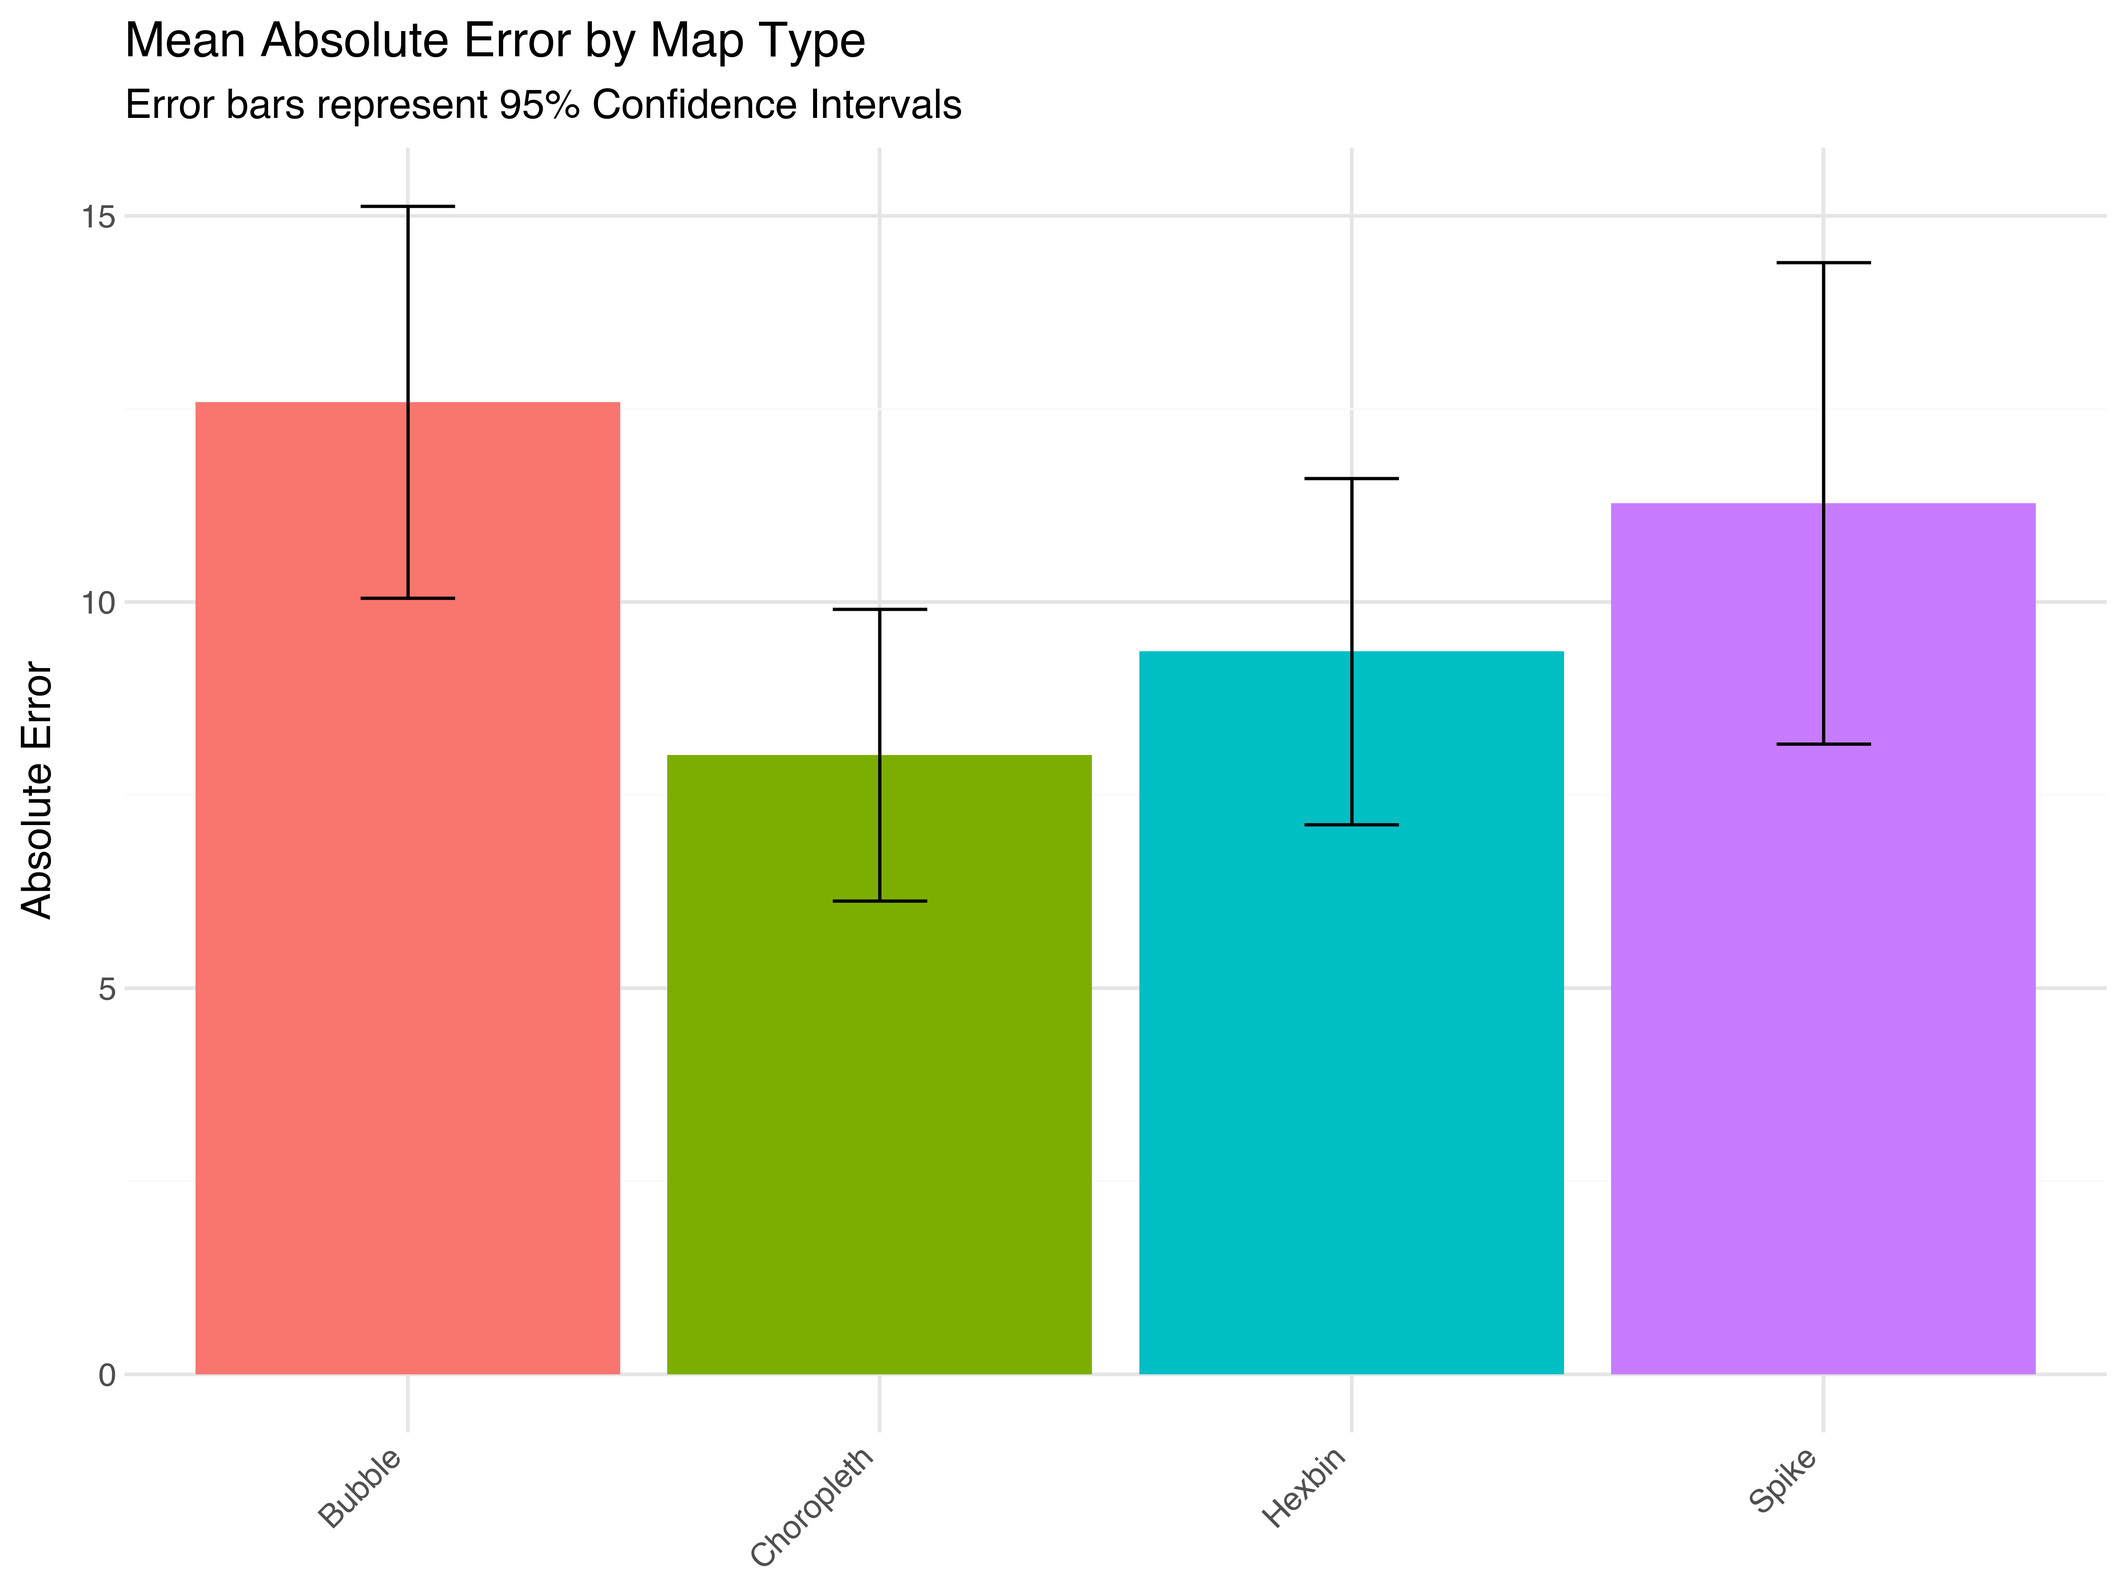
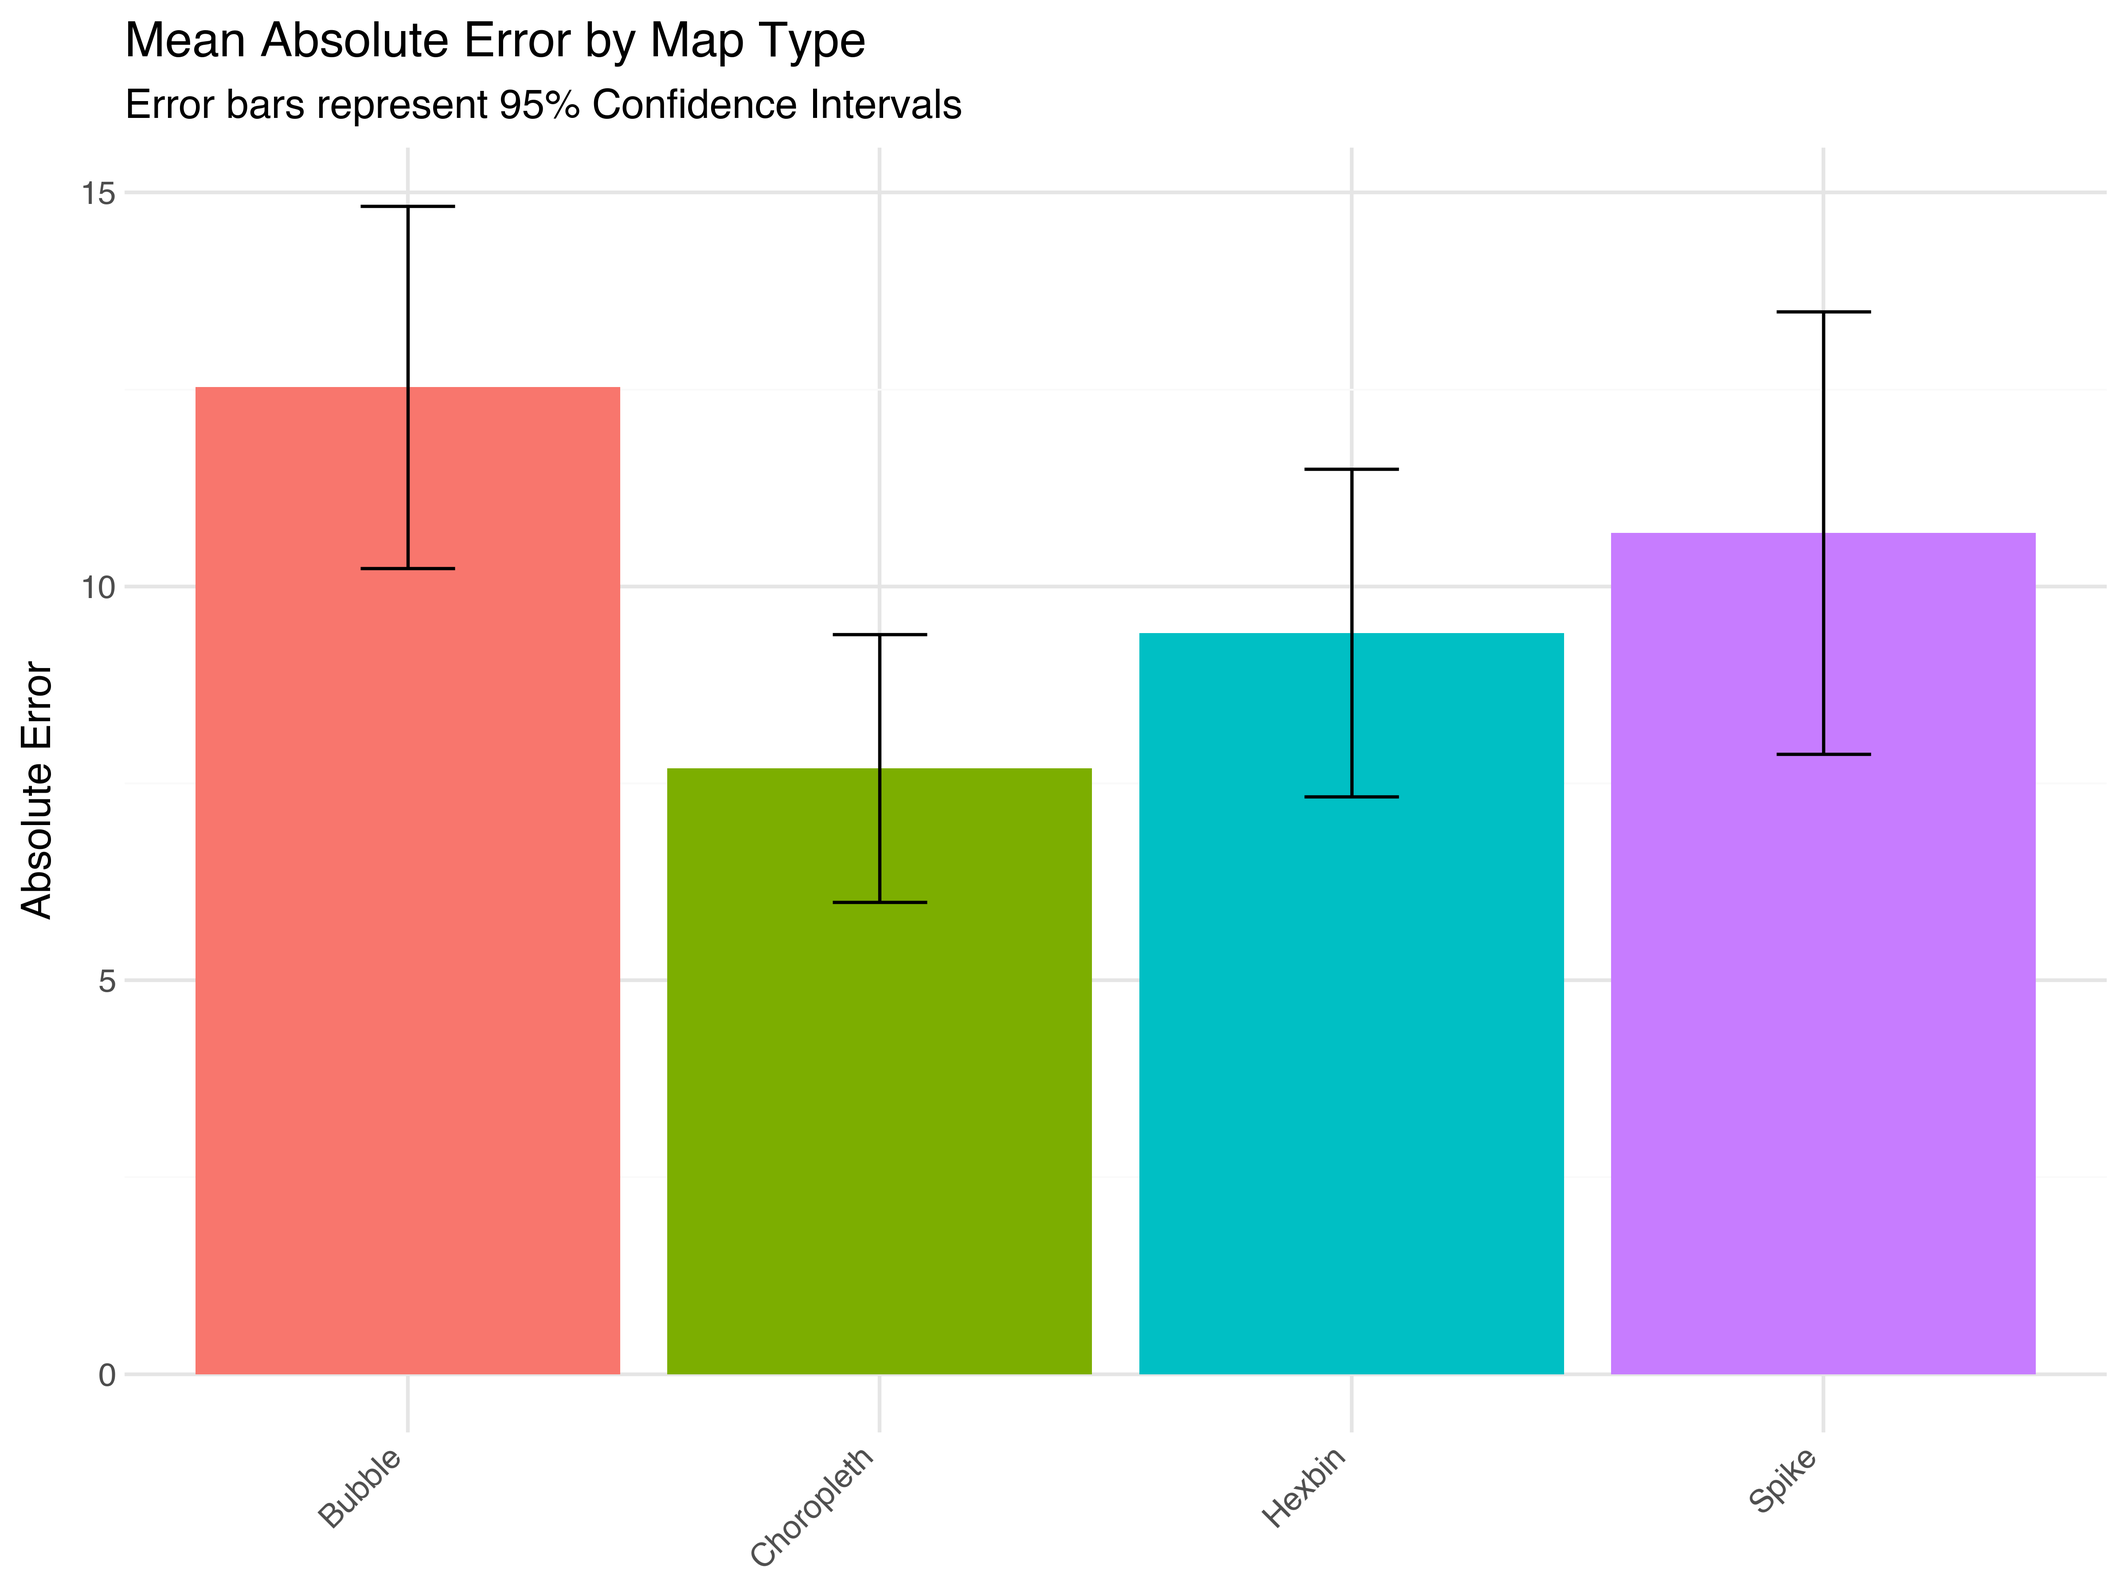
Updated data and readme

diff --git a/data_analysis/analysis.py b/data_analysis/analysis.py
@@ -54,6 +54,7 @@ def run_experiment_analysis(file_path):
             ci = sem * stats.t.ppf((1 + 0.95) / 2., len(vals) - 1)
             row[f'{metric}_mean'] = round(mean, 2)
             row[f'{metric}_ci95'] = round(ci, 2)
+        row['count'] = len(subset)
         summary_list.append(row)
     
     summary_df = pd.DataFrame(summary_list).set_index('MapType')
@@ -113,7 +114,7 @@ def export_visualizations(summary_df, data):
 
     hist_plot = (
         ggplot(data, aes(x='bias', fill='parameters_mapType'))
-        + geom_histogram(binwidth=10, color="black", alpha=0.7, show_legend=False)
+        + geom_histogram(binwidth=5, color="black", alpha=0.7, show_legend=False)
         + geom_vline(xintercept=0, linetype="dashed", color="red", size=1)
         + facet_wrap('~parameters_mapType')
         + labs(title='Error Distribution by Map Type',

diff --git a/README.md b/README.md
@@ -1,112 +1,77 @@
-Assignment 3 - Replicating a Classic Experiment  
-===
+# Assignment 3 - Map Visualization Experiment
 
-For the scope of this project, assume the role of a scientist who runs experiments for a living.
+**Team Members**: Sarah Meyer and Cole Goulding
 
-For example: 
+## Experiment Link
+[**> Click here to view the Live Experiment <**](https://sjessicameyer.github.io/a3-experiment/a3experiment/SEVFVUNGaWFCVEhiMU55ajRqczliUT09)
 
-Q: How do we know that bar charts are "better" than pie charts?  
-A: Controlled experiments!
-
-In this assignment you'll implement a simple controlled experiment using some of the visualizations you’ve been building in this class. 
-You'll need to develop support code for the experiment sequence, results file output, and other experiment components. 
-(These are all simple with Javascript buttons and forms.)
-The main goals for you are to a) test at least three competing visualizations or experiment conditions, b) implement data/stimuli generation and error calculation functions (if following the baseline, use Cleveland and McGill's 1984 paper and Heer and Bostock's 2010 replication), c) run the experiment with 10 participants (or equivalent number of trials), and d) do basic analysis and reporting of the results.
-
-For this assignment you should aim to write everything from scratch. For experimentation it is often necessary to control all elements of the chart.
-You should definitely *reference* demo programs from books or the web, and if you do please provide a References section with links at the end of your Readme.
-
-Going Beyond Cleveland-McGill
 ---
 
-Several have expressed interest in conducting surveys of various sorts. I encourage you go move beyond Cleveland and McGill if you can think of other interesting visualization experiment designs and corresponding analyses. 
+## Experiment Description
+Instead of replicating the standard Cleveland and McGill experiment, our team chose to investigate the perceptual effectiveness of different thematic map types.
 
-You might study how people interpret COVID visualizations or design an experiment on shapes or color, for example.
-If you decide to go in a custom route, do plan to sync with staff so we can help you set acceptable parameters that would be fair to folks following the original route.
+We designed a controlled user study to compare four different geographical visualization techniques:
+1. **Bubble Map**
+2. **Choropleth Map**
+3. **Spike Map**
+4. **Hexbin Map**
 
-(Basically, we still want you to do a multi-trial study with each participant, to raise the chance that you get solid results.)
+### The Task
+Participants were presented with a map visualization and asked to estimate the population of a specific region or city. We collected 20 trials per participant (5 per map type) to ensure robust data. Trial order was randomized and the even the map shape and data itself was fully randomized. Since hex bin maps are typically multivariate, both size and colors in this case correlated with population. 
 
-How you measure "error" and similar facets also matter. But you can't go wrong with finding a good visualization study online to start from :)
+### Hypothesis
+We hypothesized that cloropleth maps would yield lower estimation errors, followed by bubble maps, spike maps, and finally hex bin maps. 
 
-Requirements
+### Data Collection
+We asked n = 19 friends, family, and classmates to fill out this survey, which we hosted on Github. Participants were asked to use a laptop or desktop computer for the experiment. Participants were allowed to contact us for more clarification. No identifiable information was collected during the experiment.
+
 ---
 
-- Look it over Cleveland and McGill's original experiment (see the section below) and [watch this video](https://www.loom.com/share/636660b72d00436a8ae910f91d67a0c7) to get a sense of the experiment structure and where your visualizations will go.
-- When viewing the example experiment video, note the following:
-    - Trials are in random order.  
-    - Each trial has a randomly generated set of 5-10 data points.  
-    - Two of these data points are marked.  
-    - (Note: the experiment UI and User Experience could be better. Plenty of design achievements here).
-- Implement the data generation code **as described in the Cleveland & McGill and Heer & Bostock papers**. 
-    - The goal is to generate a set of random datapoints (usually 5 or 10, with values be between 0 and 100) and to mark two of them for comparison in the trial. 
-- Add 3 visualizations (i.e. conditions) to your experiment. When you are adding these visualizations, think about *why* these visualizations are interesting to test. In other words, keep in mind a *testable hypothesis* for each of the added visualization. Some good options include bar charts, pie charts, stacked-bar charts, and treemaps. You can also rotate your bar chart to be horizontal or upside-down as one of your conditions. You are encouraged to test unorthodox charts -- radar charts come to mind, but there are MANY possibilities here-- feel free to be creative!
-    - Follow the style from Cleveland and McGill closely (e.g. no color, simple lines) unless you are specifically testing a hypothesis (e.g. color versus no color). Pay attention to spacing between elements like bars. Do not mark bars for comparison using color-- this makes the perceptual task too easy.
-- After each trial, implement code that grades and stores participant’s responses.
-- At the end of the experiment, to get the data, one easy option use Javascript to show the data from the current experiment\* (i.e. a comma separated list in a text box) and copy it into your master datafile. See the Background section below for an example of what this file should look like. (\*Alternately implement a server, if you're experienced with that sort of thing.)
+## Visualizations
 
-** DATA SCIENTISTS! IT IS YOUR TIME TO SHINE **
+| Bubble Map | Choropleth Map |
+| :---: | :---: |
+| ![Bubble Map](img/bubble.png) | ![Choropleth Map](img/choro.png) |
+| **Spike Map** | **Hexbin Map** |
+| ![Spike Map](img/spike.png) | ![Hexbin Map](img/hexbin.png) |
 
-- Figure out how to calculate "Error", the difference between the true percentage and the reported percentage.
-- Scale this error using Cleveland and McGill’s log-base-2 error equation. For details, see the background section (there’s a figure with the equation). This becomes your “Error” column in the output. Make sure you use whole percentages (not decimal) in the log-base-2 equation. Make sure you handle the case of when a person gets the exact percentage correct (log-base-2 of 1/8 is -3, it is better to set this to 0). 
-- Run your experiment with 10 or more participants, or-- make sure you get at least 200 trials **per visualization type** in total.  
-    - Grab friends or people in the class.   
-    - Run at least 20 trials per visualization type, per participant. This is to ensure that you cover the range of possible answers (e.g. 5%, 10%, ..., 95%)
-- Make sure to save the resulting CSV after each participant. Compile the results into a master csv file (all participants, all trials).
-- Produce a README with figures that shows the visualizations you tested and results, ordered by best performance to worst performance. Follow the modern Cleveland-McGill figure below -- though note that using names instead of icons is fine.
-- To obtain the ranking, calculate and report the average log2Error for each visualization across all trials and participants. This should be straightforward to do in a spreadsheet.
-- Use Bootstrapped 95\% confidence intervals for your error upper and lower bounds. Include these in your figures. Bootstrapped confidence intervals are easily implemented in R + ggplot2 using the `stat_summary` geom. You can also use Excel, Python, or many many other tools. Bootstrapped 95% CIs are **very** useful in modern experiment practice.
-- Include example images of each visualization as they appeared in your experiment (i.e. if you used a pie chart show the actual pie chart you used in the experiment along with the markings, not an example from Google Images).
+*(Note: Screenshots of the actual experiment interface)*
 
-## General Requirements
+---
+### Data validation
+Data was filtered and validated on three criteria:
+- A user must fill out all survey questions for their responses to be used
+- Error must be reported as a multiple of 5 per survey instructions
+- Error cannot be reported as a negative number
 
-0. Your code should be forked from the GitHub repo and linked using GitHub pages.
-2. Your project should use d3 to build visualizations. 
-3. Your writeup (readme.md in the repo) should contain the following:
+### Analysis & Results
+We analyzed the results based on two primary metrics:
 
-- Working link to the experiment hosted on gh-pages or some other site.
-- Concise description and screenshot of your experiment.
-- Description of the technical achievements you attempted with this project.
-- Description of the design achievements you attempted with this project.
+1. **Absolute Error**: The magnitude of deviation from the actual value.
+2. **Bias**: The directional difference indicating tendencies to over- or under-estimate.
 
-Background
+### Key Findings
+* **Best Performer**: **[Insert Map Type]** had the lowest mean absolute error.
+* **Bias Trends**: [TODO]
+* **Statistical Significance**: [TODO].
+
+![Error Histogram](data_analysis/errror_histogram.png)
+![Error Plot](data_analysis/absolute_error_plot.png)
+![Bias Plot](data_analysis/bias_plot.png)
+
 ---
 
-In 1984, William Cleveland and Robert McGill published the results of several controlled experiments that pitted bar charts against pies and stacked-bar variants. 
-Their paper (http://www.cs.ubc.ca/~tmm/courses/cpsc533c-04-spr/readings/cleveland.pdf) (http://info.slis.indiana.edu/~katy/S637-S11/cleveland84.pdf) is considered a key paper in data visualization.
-In particular, they ran a psychology-style experiment where users were shown a series of randomly-generated charts with two graphical elements marked like this:
+## Technical Achievements
+- **Custom Map Implementation**: Implemented four distinct D3.js map visualizations using TopoJSON and specific projection scaling.
+- **Data Pipeline**: Created a robust analysis pipeline in Python (`analysis.py`) that merges user responses with ground truth data, performs cleaning, and runs statistical tests (ANOVA, Tukey HSD).
+- **Automated Visualization**: The analysis script automatically generates error bars and bias distribution plots using `plotnine`.
 
-![cleveland bar chart](img/cleveland-bar.png)
+## Design Achievements
+- **Clean UI**: Designed a distraction-free experiment interface to focus participant attention on the map tasks.
+- **Color & Scale**: Carefully selected color scales (e.g., ColorBrewer schemes) to ensure accessibility and clarity across map types.
 
-Participants were then asked, "What percentage is the smaller of the larger?". 
-This was repeated hundreds of time with varying data and charts. 
-By the end of the study, Cleveland and McGill had amassed a large dataset that looked like this:
-
-![cleveland table](img/cleveland-table.png)
-
-__Log-base-2 or "cm-error"__: The true percent is the actual percentage of the smaller to the larger, while the reported percent is what participants reported. 
-Cleveland and McGill recognized that their analyses would be biased if they took `abs(ReportedPercent – TruePercent)` as their score for error. 
-To compensate, they came up with a logarithmic scale for error with this equation:
-
-![cleveland equation](img/cleveland-equation.png)
-
-You’ll be implementing this error score as part of the lab. 
-(Hint: it’s not a trick question, this is just to familiarize you with the experiment protocol). 
-With this Cleveland-McGill error score you can better compare the performance of the charts you test to figure out which one performs the best.
-
-As a baseline, compare your average Error scores to the following chart, which include both Cleveland and McGill’s results as well as more recent extensions of this experiment (lower error indicates better performance, and error bars are bootstrapped 95% confidence intervals (`http://en.wikipedia.org/wiki/Confidence_interval#Meaning_and_interpretation`)):
-
-![cleveland results](img/cleveland-results.png)
-
-GitHub Details
 ---
 
-- Fork the GitHub Repository. You now have a copy associated with your username.
-- Make changes to index.html to fulfill the project requirements. 
-- Make sure your "master" branch matches your "gh-pages" branch. See the GitHub Guides referenced above if you need help.
-- Edit this README.md with a link to your gh-pages site: e.g. http://YourUsernameGoesHere.github.io/Experiment/index.html
-- Replace this file (README.md) with your writeup and Design/Technical achievements.
-- To submit, make a [Pull Request](https://help.github.com/articles/using-pull-requests/) on the original repository.
-- Name your submission using the following scheme: 
-```
-a3-FirstLastnameMember1-FirstLastnameMember2-FirstLastnameMember3-...
-```
+## References
+* [Insert Paper or Library Link 1]
+* [Insert Paper or Library Link 2]
